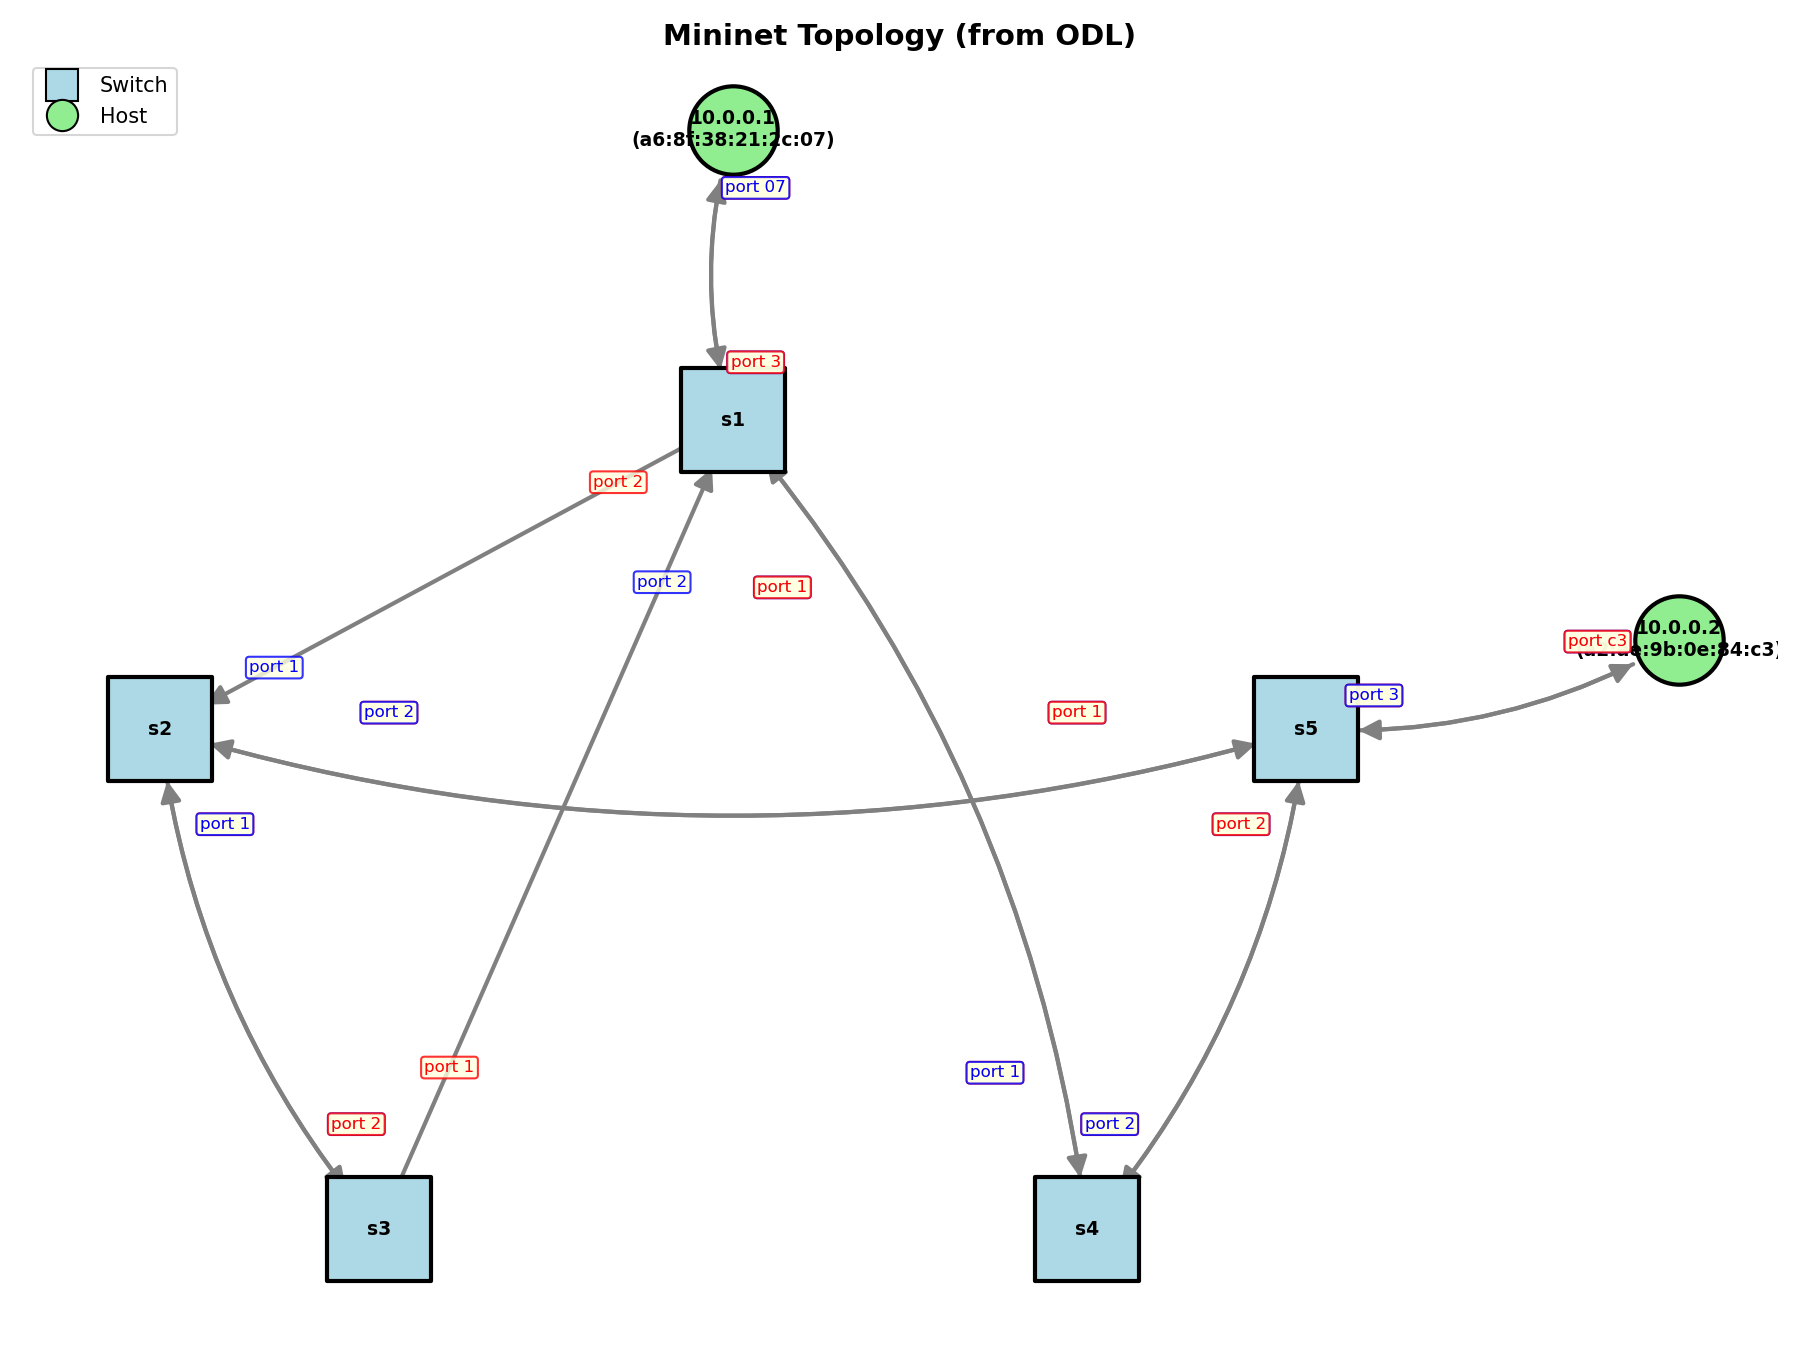
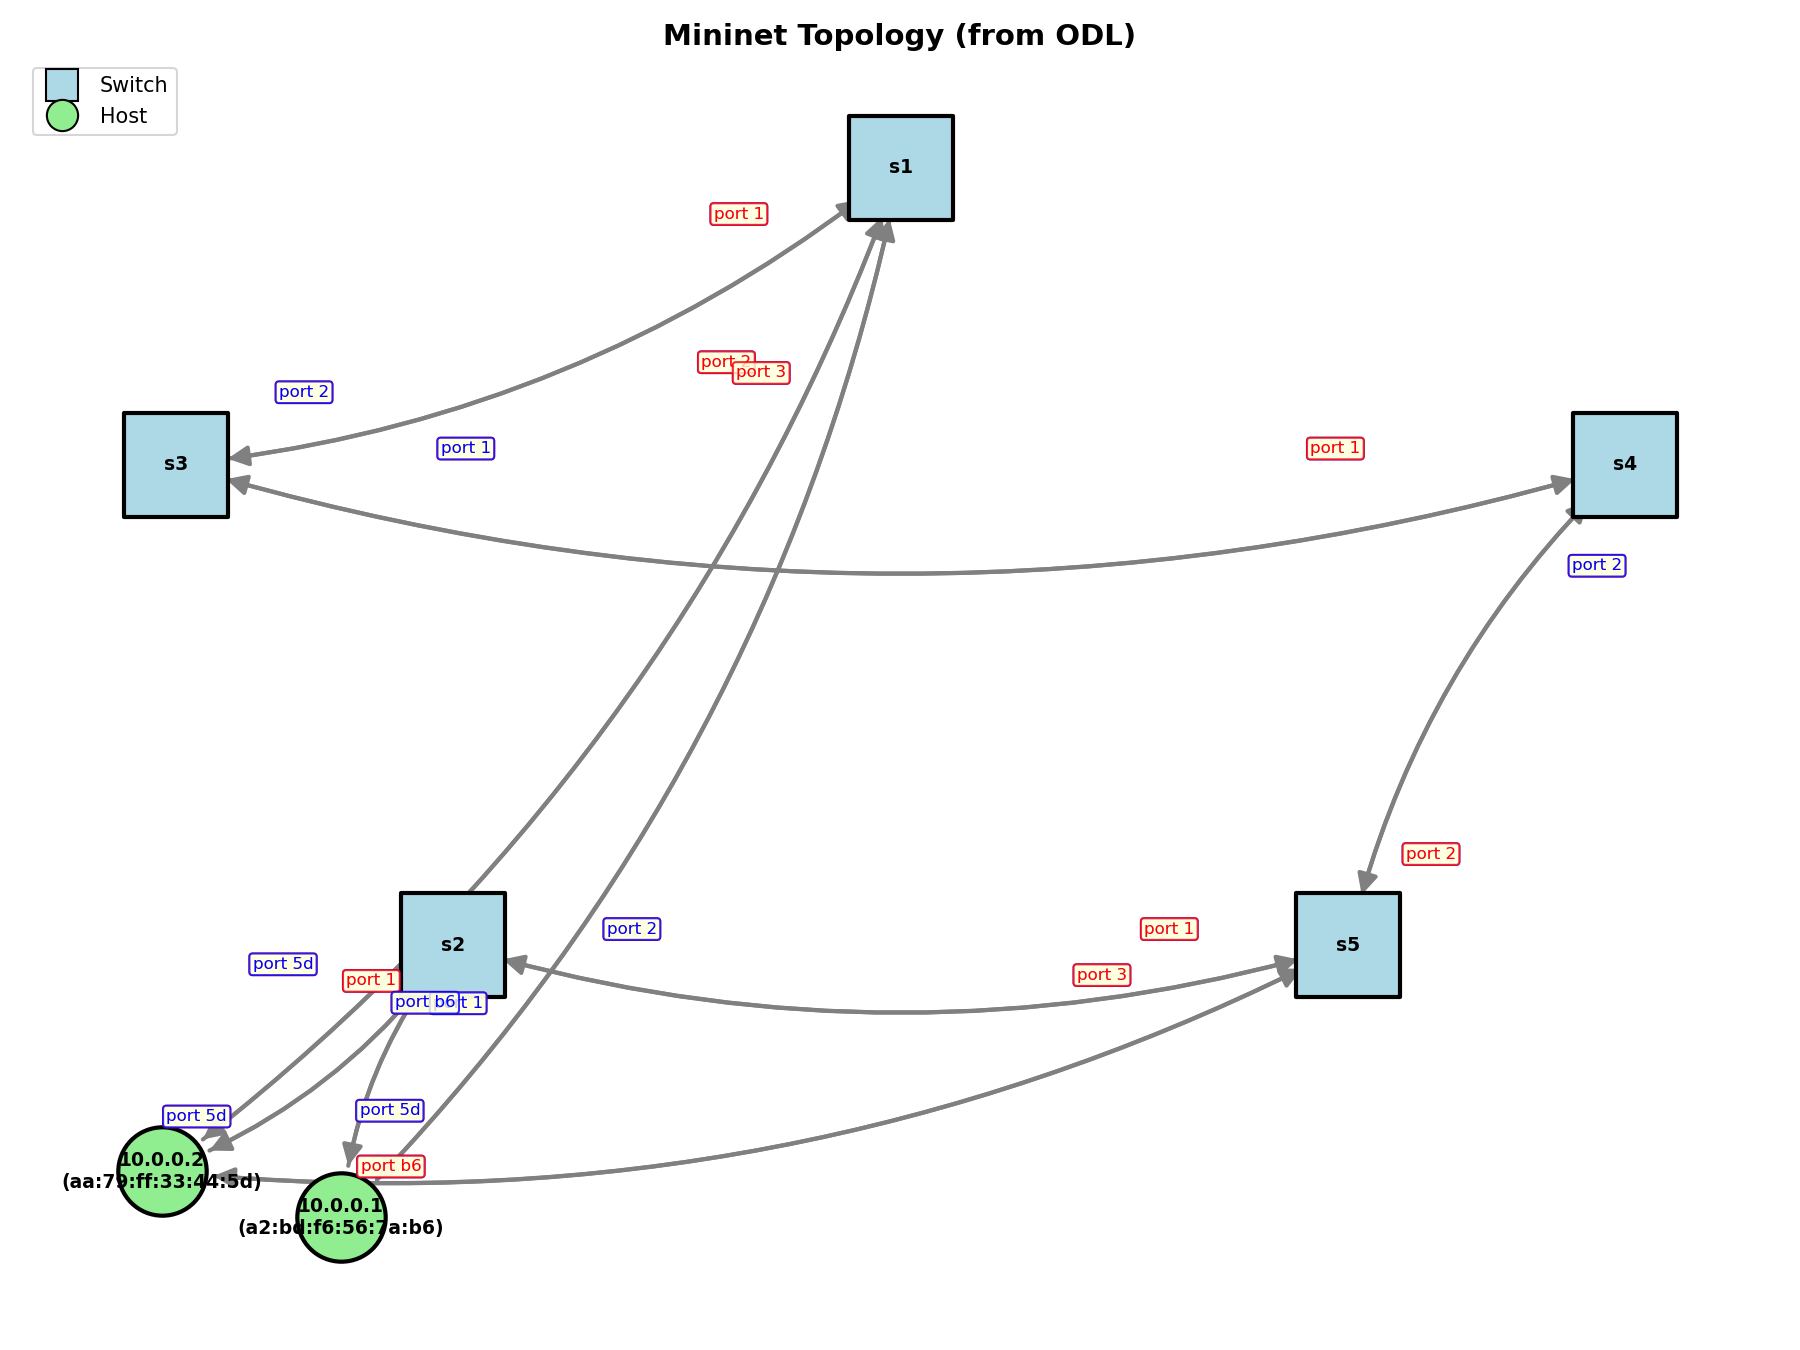
fulfill

diff --git a/odl_scripts/draw_topo.py b/odl_scripts/draw_topo.py
@@ -4,11 +4,25 @@
 import json
 import math
 import os
+import subprocess
 import matplotlib.pyplot as plt
 import networkx as nx
 
-DATA_DIR = os.path.join(os.path.dirname(os.path.abspath(__file__)), "data")
+SCRIPT_DIR = os.path.dirname(os.path.abspath(__file__))
+DATA_DIR = os.path.join(SCRIPT_DIR, "data")
 TOPO_FILE = os.path.join(DATA_DIR, "topo.json")
+
+
+def fetch_topology():
+    """Call req_topo.sh to get the latest topology from ODL."""
+    req_script = os.path.join(SCRIPT_DIR, "req_topo.sh")
+    print("Fetching latest topology from ODL...")
+    result = subprocess.run(["bash", req_script], cwd=SCRIPT_DIR,
+                            capture_output=True, text=True)
+    if result.returncode != 0:
+        print(f"Warning: req_topo.sh failed: {result.stderr}")
+    else:
+        print("Topology fetched successfully.")
 
 
 def load_topology(filepath):
@@ -68,8 +82,11 @@ def compute_positions(G, switches, hosts):
     radius = 2.0
 
     # Place switches evenly around a circle (top-centered)
+    # Swap positions: s2<->s3, s4<->s5
+    swap_map = {1: 2, 2: 1, 3: 4, 4: 3}
     for i, sw in enumerate(switches):
-        angle = math.pi / 2 + 2 * math.pi * i / n  # start from top, go clockwise
+        slot = swap_map.get(i, i)
+        angle = math.pi / 2 + 2 * math.pi * slot / n  # start from top, go clockwise
         pos[sw] = (radius * math.cos(angle), radius * math.sin(angle))
 
     # Place hosts outside the ring, offset from their attachment switch
@@ -210,6 +227,7 @@ def draw_topology(G, switches, hosts):
 
 
 if __name__ == "__main__":
+    fetch_topology()
     topology = load_topology(TOPO_FILE)
     G, switches, hosts = build_graph(topology)
     draw_topology(G, switches, hosts)
